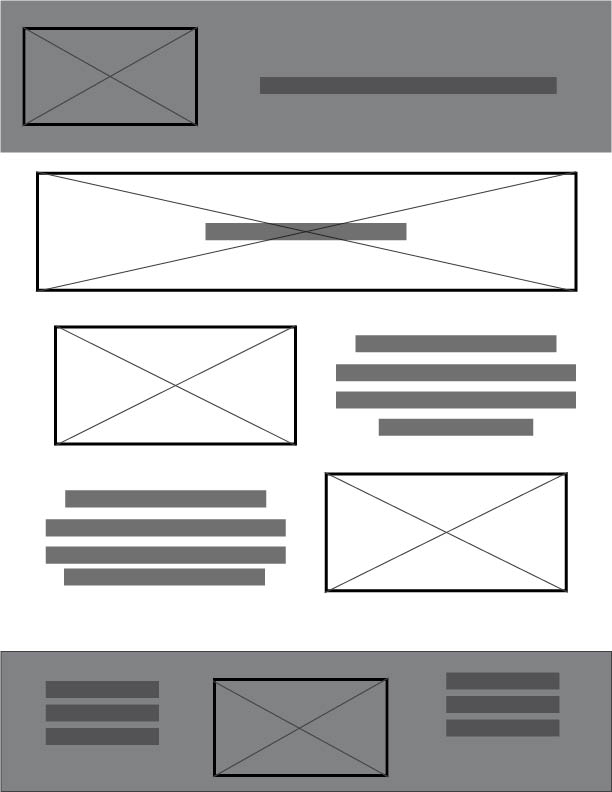
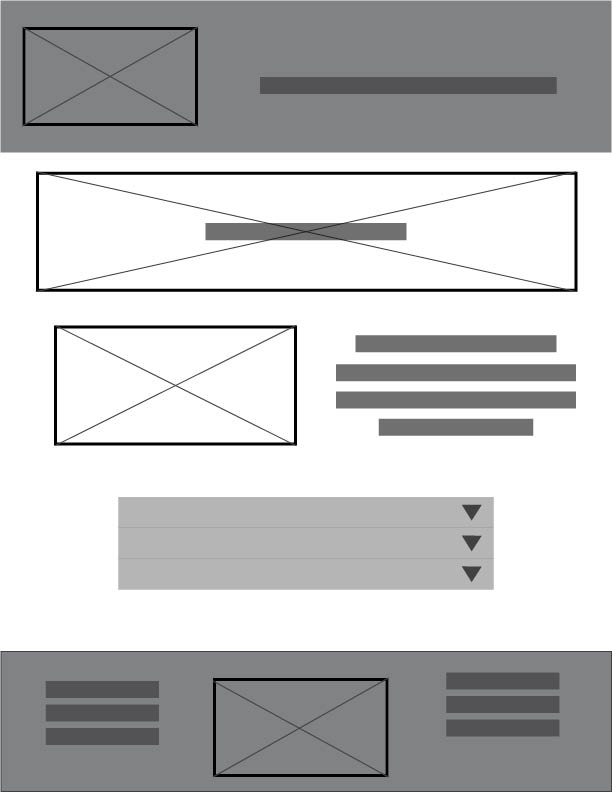
Week 12 2nd commit

Changed region(s): [[0.0621, 0.5758, 0.9314, 0.7576]]

diff --git a/sweetside/aboutus.html b/sweetside/aboutus.html
@@ -1,0 +1,142 @@
+<!DOCTYPE html>
+<html lang="en">
+
+<head>
+    <meta charset="UTF-8">
+    <meta http-equiv="X-UA-Compatible" content="IE=edge">
+    <meta name="viewport" content="width=device-width, initial-scale=1.0">
+    <title>Show me Your Sweet Side Freeze Dried Candy | Home</title>
+    <link rel="stylesheet" href="styles/style.css">
+</head>
+
+<body>
+    <div id="content">
+        <header>
+            <a id="logo_link" href="index.html">
+                <img class="logo" src="images/sweet-side.jpg" alt="Show Me your Sweet Side Logo">
+            </a>
+            <nav>
+                <a href="index.html">Home</a>
+                <a href="#">Shop</a>
+                <a href="aboutus.html">About Us</a>
+            </nav>
+        </header>
+        <div id="content">
+            <section class="taffyzoomedin-card">
+                <img class="card-img" src="images/taffyzoomedin.jpg" alt="Freeze Dried Taffy">
+            </section>
+            <section class="event-card">
+                <img class="card-img" src="images/Event.jpg" alt="Owner at an event.">
+            </section>
+            <section class="msg">
+                <h2></h2>
+                <p>We started our family-owned business in March of 2023 as a means to help me as a 17-year-old save
+                    money for college. The vision for the initial business changed multiple times as we figured out
+                    where we best fit. We learned that in order to sell online we would have to get a commercial kitchen
+                    so instead we started with events and then approached brick-and-mortar stores and locations to sell
+                    there. We did pop-up events in local coffee shops and sold on social media. We started in a couple
+                    of boutiques and music stores but eventually found our niche. We are now located in six different
+                    stores across the Phoenix metropolitan area. We encourage people to shop local and support small
+                    businesses.</p>
+            </section>
+
+            <element class="paragraph">
+                <p>The all-time fan favorite is the original flavors of Skittles. We also carry wildberry and sour
+                skiddles. The runner-up flavor is the nerdy clusters, these are freeze-dried gummy nerds. It should be
+                gummy candy with a crunch on the inside becomes a very fluffy treat. Be warned, the products are very
+                delicious!</p>
+
+                <p>If you have a freeze dryer be sure to check out our recipes below to try to make this product for
+                yourself!</p>
+
+                </element>
+
+            <div>
+                <button class="accordion">Skiddles Recipie</button>
+                <div class="panel">
+                    <p>Set machine to "High Temperature Candy Mode". To acheive the perfect crunchy airy texture do not
+                        add extra top plastic layers. This will prevent them from overheating. Warm Trays at 150-degrees
+                        for 8 min and Freeze Dry at 150-degrees for 3hrs. Remove from machine shortly after cycle is
+                        complete before the machine has cooled. This allows the skiddles to maintain their shine.</p>
+                    <p>Note: This recipie can also be used for Sour and Berry SKiddles as well as Sweet Tart Chews!
+                        Additional dry time may be needed in more humid climates in order to completely dry the
+                        candy.</p>
+                </div>
+
+                <button class="accordion">Gummies Recipie</button>
+                <div class="panel">
+                    <p>Set machine to "High Temperature Candy Mode". You should not need to add extra top layers, but if
+                        your gummies come out flat this is an indication that they did not warm enough and will need to
+                        have the extra plastic layers. Skip warming trays. Freeze Dry at 150-degrees for 10hrs. Remove
+                        from machine shortly after cycle is complete before the machine has cooled. This prevents the
+                        gummies from becoming sticky.</p>
+                    <p>Note: Additional dry time may be needed in more humid climates in order to completely dry the
+                        candy.</p>
+                </div>
+
+                <button class="accordion">Taffy</button>
+                <div class="panel">
+                    <p> Before freeze drying cut 1 taffy into 4 equal peices, do this to all the taffy that you intend
+                        to freeze-dry. Be aware that the taffy becomes sticky and can stick together so space
+                        appropriately. Set machine to "High Temperature Candy Mode". To acheive the perfect crunchy airy
+                        texture do not add extra top plastic layers. This will prevent them from overheating and
+                        melting. Skip warming trays and Freeze Dry at 150-degrees for 3hrs. Remove from machine shortly
+                        after cycle is
+                        complete before the machine has cooled. This allows the taffy to maintain its shine.
+                    </p>
+                    <p>Note: Additional dry time may be needed in more humid climates in order to completely dry the
+                        candy. If candy is not puffing this means that it is not getting warm enough in the beggining.
+                        Adjust recipie and try incrasing or adding time to the warm trays cycle or add the extra plactic
+                        on top to increase convection.</p>
+                </div>
+
+                <button class="accordion">Jollys</button>
+                <div class="panel">
+                    <p> Before freeze drying cut 1 taffy into 3 equal peices, do this to all the jolly ranchers that
+                        you intend
+                        to freeze-dry. Be aware that the taffy becomes sticky and can stick together so space
+                        appropriately. Set machine to "High Temperature Candy Mode". To acheive the perfect crunchy
+                        airy
+                        texture add extra top plastic layers. This will help them become warm enough. Skip warming
+                        trays and Freeze Dry at 150-degrees for 4hrs. Remove from machine shortly
+                        after cycle is complete before the machine has cooled. This prevents jollys from becoming
+                        sticky due to the cold temperature that the machine will settle into after the cycle.
+                    </p>
+                    <p>Note: Additional dry time may be needed in more humid climates in order to completely dry the
+                        candy. If candy is not puffing this means that it is not getting warm enough in the
+                        beggining.
+                        Adjust recipie and try incrasing or adding time to the warm trays cycle or add the extra
+                        plactic
+                        on top to increase convection.</p>
+                </div>
+
+                    <script>var acc = document.getElementsByClassName("accordion");
+                        var i;
+
+                        for (i = 0; i < acc.length; i++) {
+                            acc[i].addEventListener("click", function () {
+                                /* Toggle between adding and removing the "active" class,
+                                to highlight the button that controls the panel */
+                                this.classList.toggle("active");
+
+                                /* Toggle between hiding and showing the active panel */
+                                var panel = this.nextElementSibling;
+                                if (panel.style.display === "block") {
+                                    panel.style.display = "none";
+                                } else {
+                                    panel.style.display = "block";
+                                }
+                            });
+                        }</script>
+                </div>
+                <footer>
+                    <p>Show Me Your Sweet Side - Find us on social</p>
+                    <section class="rapids-card">
+                        <img class="thankyou-img" src="images/thankyouimage.svg" alt="Freeze Dried Skittles">
+                    </section>
+                    <p><a href="shop.html">Shop</a></p>
+                    <p><a href="aboutus.html">About us</a></p>
+                </footer>
+</body>
+
+</html>

diff --git a/sweetside/styles/style.css b/sweetside/styles/style.css
@@ -52,11 +52,6 @@ nav a:hover {
     color: #000000;
 }
 
-.join:hover {
-    background-color: #f25668;
-    color: #1C4666;
-}
-
 .icon {
     width: 80px;
     padding-top: 10px;
@@ -338,4 +333,86 @@ section#hero-msg {
 .home-grid {
     display: grid;
     grid-template-columns: 1fr 1fr 1fr 1fr 1fr 1fr 1fr 1fr 1fr 1fr;
+}
+/* Style the buttons that are used to open and close the accordion panel */
+.accordion {
+    background-color: #dedbdb;
+    color: #000000;
+    cursor: pointer;
+    padding: 18px;
+    width: 70%;
+    text-align: left;
+    border: none;
+    outline: none;
+    transition: 0.4s;
+    font-size: large
+    
+}
+
+/* Add a background color to the button if it is clicked on (add the .active class with JS), and when you move the mouse over it (hover) */
+.active,
+.accordion:hover {
+    background-color:#f797a5;
+}
+
+/* Style the accordion panel. Note: hidden by default */
+.panel {
+    padding: 0 22px;
+    background-color:#dedbdb;
+    display: none;
+    overflow: hidden;
+    padding: 20px;
+    width: 70%;
+    text-align: left;
+    border: none;
+    outline: none;
+    transition: 0.4s;
+    font-size: large
+}
+
+* {
+    box-sizing:content-box
+}
+.paragraph {
+    padding: 20px;
+    text-align: center;
+    border: none;
+    outline: none;
+    font-family: Manrope, Helvetica, sans-serif;
+    font-size: .8em;
+    line-height: 1.5em;
+    padding-bottom: 70px;
+    width: 70%;
+    display: block;
+    margin: 0 auto;
+}
+.msg{
+    color: #f25668;
+    padding: 2px;
+    text-align: center;
+    border: none;
+    outline: none;
+    font-family: Manrope, Helvetica, sans-serif;
+    font-size: .8em;
+    line-height: 1.5em;
+    padding-bottom: 15px;
+    width: 70%;
+    display: block;
+    margin: 0 auto;
+}
+.taffyzoomedin-card {
+        display:block;
+        margin-left: auto;
+        margin-right: auto;
+        width: 100%;
+}
+.event-card {
+    width: 30%;
+    justify-self: left;
+    align-self: center;
+    justify-content: center;
+    align-content: center;
+    padding-top:100px ;
+    padding-bottom:100px;
+    padding-left: 100px;
 }
